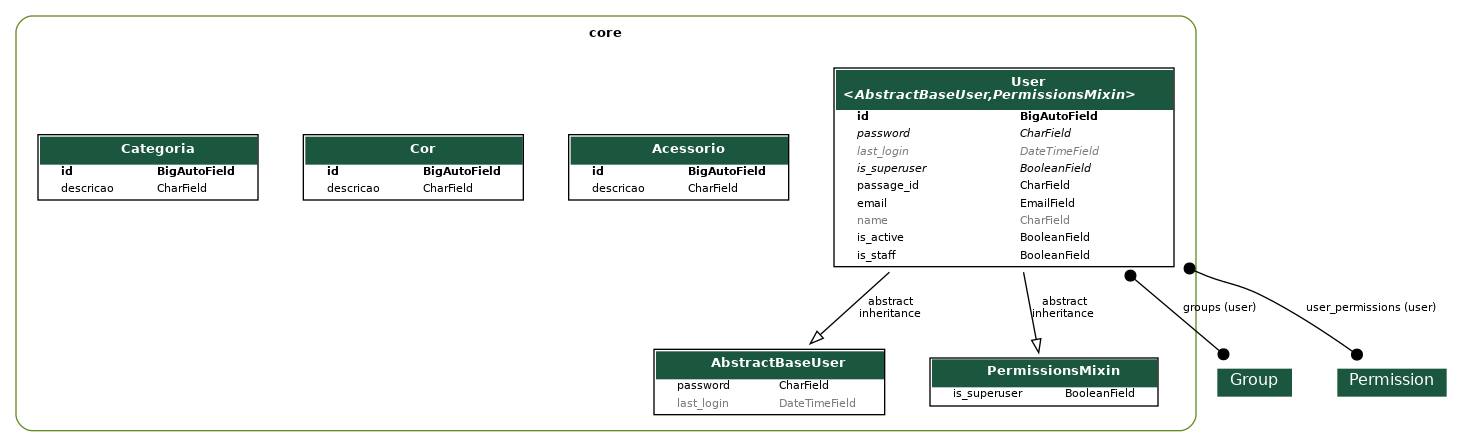
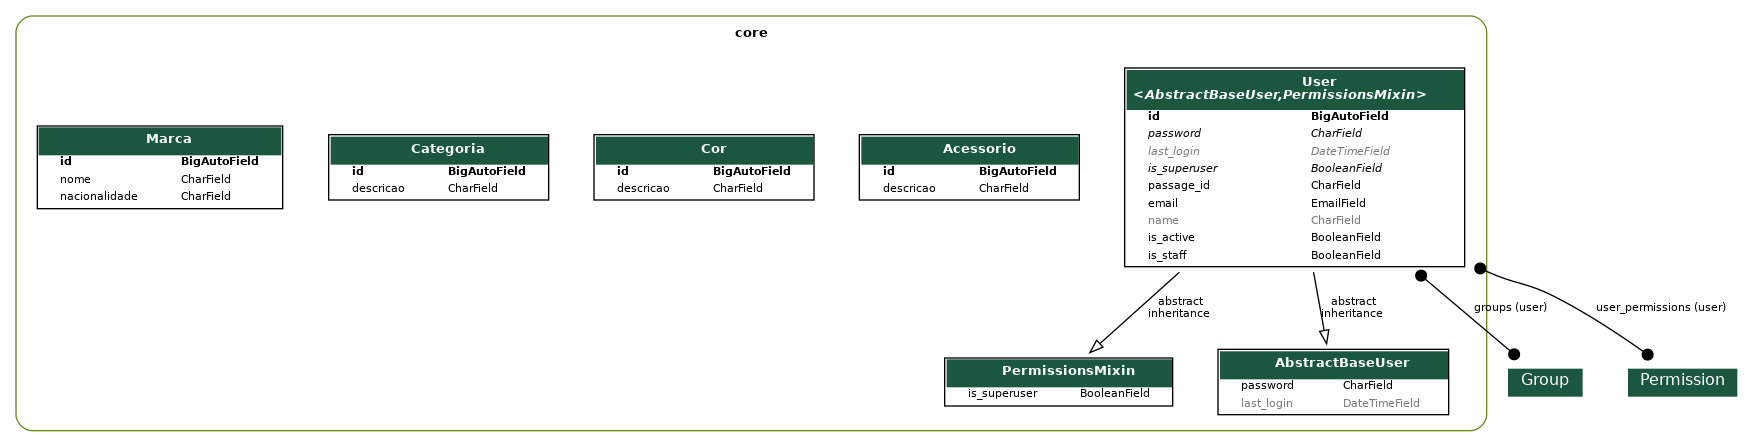
Criação da API "Marca"

diff --git a/core/migrations/0008_marca.py b/core/migrations/0008_marca.py
@@ -1,0 +1,21 @@
+# Generated by Django 5.1.7 on 2025-05-06 15:17
+
+from django.db import migrations, models
+
+
+class Migration(migrations.Migration):
+
+    dependencies = [
+        ('core', '0007_categoria'),
+    ]
+
+    operations = [
+        migrations.CreateModel(
+            name='Marca',
+            fields=[
+                ('id', models.BigAutoField(auto_created=True, primary_key=True, serialize=False, verbose_name='ID')),
+                ('nome', models.CharField(max_length=50)),
+                ('nacionalidade', models.CharField(max_length=50)),
+            ],
+        ),
+    ]

diff --git a/core/models/marca.py b/core/models/marca.py
@@ -1,0 +1,9 @@
+from django.db import models
+ 
+class Marca(models.Model):
+    nome = models.CharField(max_length=50)
+    nacionalidade = models.CharField(max_length=50)
+
+    def __str__(self):
+        return f"{self.nome.upper()} ({self.id}) ({self.nacionalidade})" 
+ 

diff --git a/core/views/marca.py b/core/views/marca.py
@@ -1,0 +1,8 @@
+from rest_framework.viewsets import ModelViewSet
+ 
+from core.models import Marca
+from core.serializers import MarcaSerializer
+
+class MarcaViewSet(ModelViewSet):
+    queryset = Marca.objects.all()
+    serializer_class = MarcaSerializer

diff --git a/core/serializers/marca.py b/core/serializers/marca.py
@@ -1,0 +1,9 @@
+from rest_framework.serializers import ModelSerializer
+ 
+from core.models import Marca
+
+
+class MarcaSerializer(ModelSerializer):
+    class Meta:
+        model = Marca
+        fields = "__all__"

diff --git a/core/admin.py b/core/admin.py
@@ -55,5 +55,8 @@ admin.site.register(models.User, UserAdmin)
 admin.site.register(models.Acessorio)
 admin.site.register(models.Cor)
 admin.site.register(models.Categoria)
+admin.site.register(models.Marca)
+
+
 
 

diff --git a/app/urls.py b/app/urls.py
@@ -11,6 +11,8 @@ from core.views import UserViewSet
 from core.views import AcessorioViewSet
 from core.views import CorViewSet
 from core.views import CategoriaViewSet
+from core.views import MarcaViewSet
+
 
 
 

diff --git a/core/serializers/__init__.py b/core/serializers/__init__.py
@@ -2,6 +2,6 @@ from .user import UserSerializer
 from .acessorio import AcessorioSerializer
 from .cor import CorSerializer
 from .categoria import CategoriaSerializer
-
+from .marca import MarcaSerializer
 
 

diff --git a/core/views/__init__.py b/core/views/__init__.py
@@ -2,5 +2,7 @@ from .user import UserViewSet
 from .acessorio import AcessorioViewSet
 from .cor import CorViewSet
 from .categoria import CategoriaViewSet
+from .marca import MarcaViewSet
+
 
 

diff --git a/core/models/__init__.py b/core/models/__init__.py
@@ -2,6 +2,8 @@ from .user import User
 from .acessorio import Acessorio
 from .cor import Cor
 from .categoria import Categoria
+from .marca import Marca
+
 
 
 
